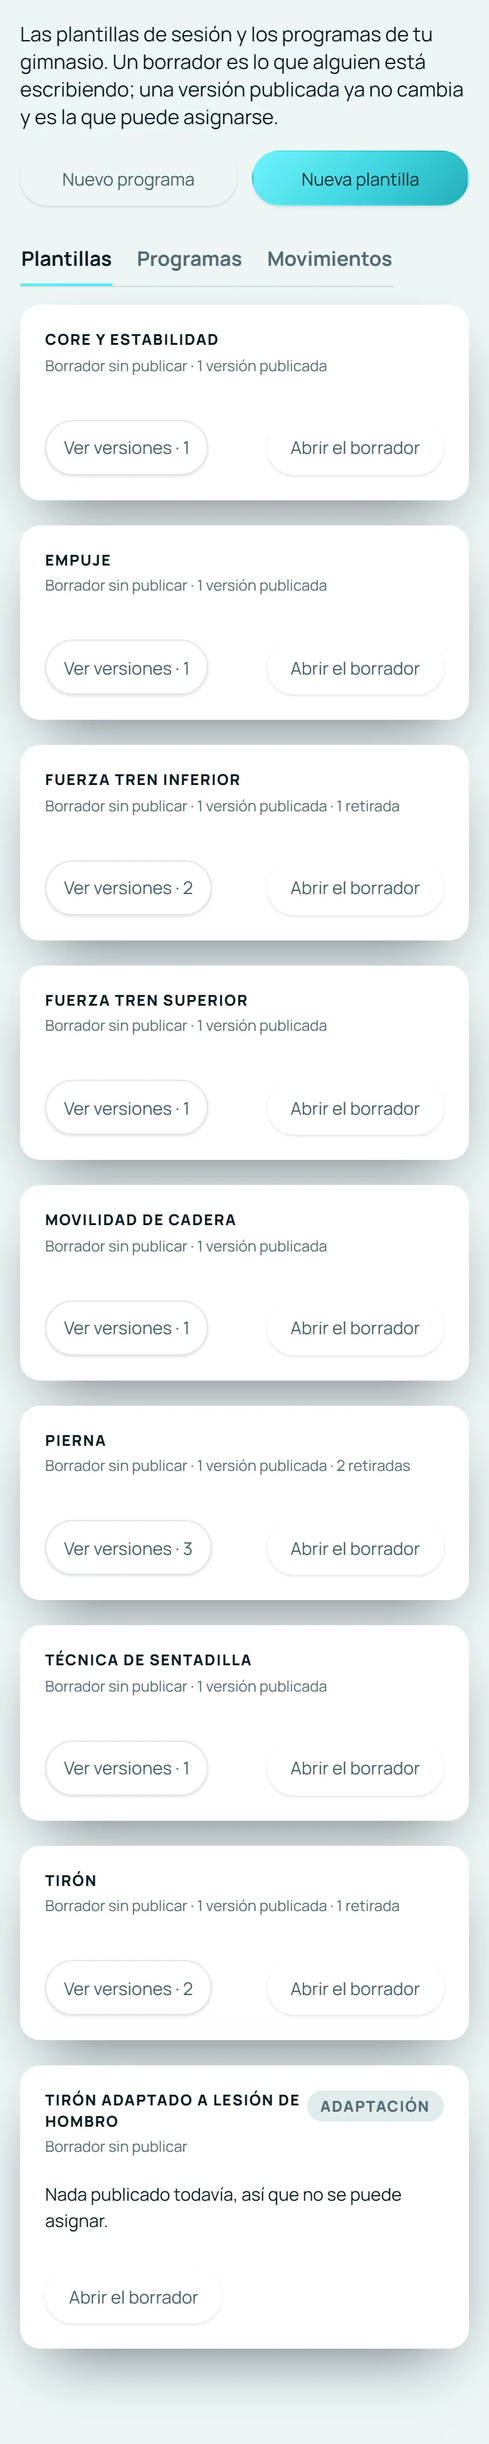
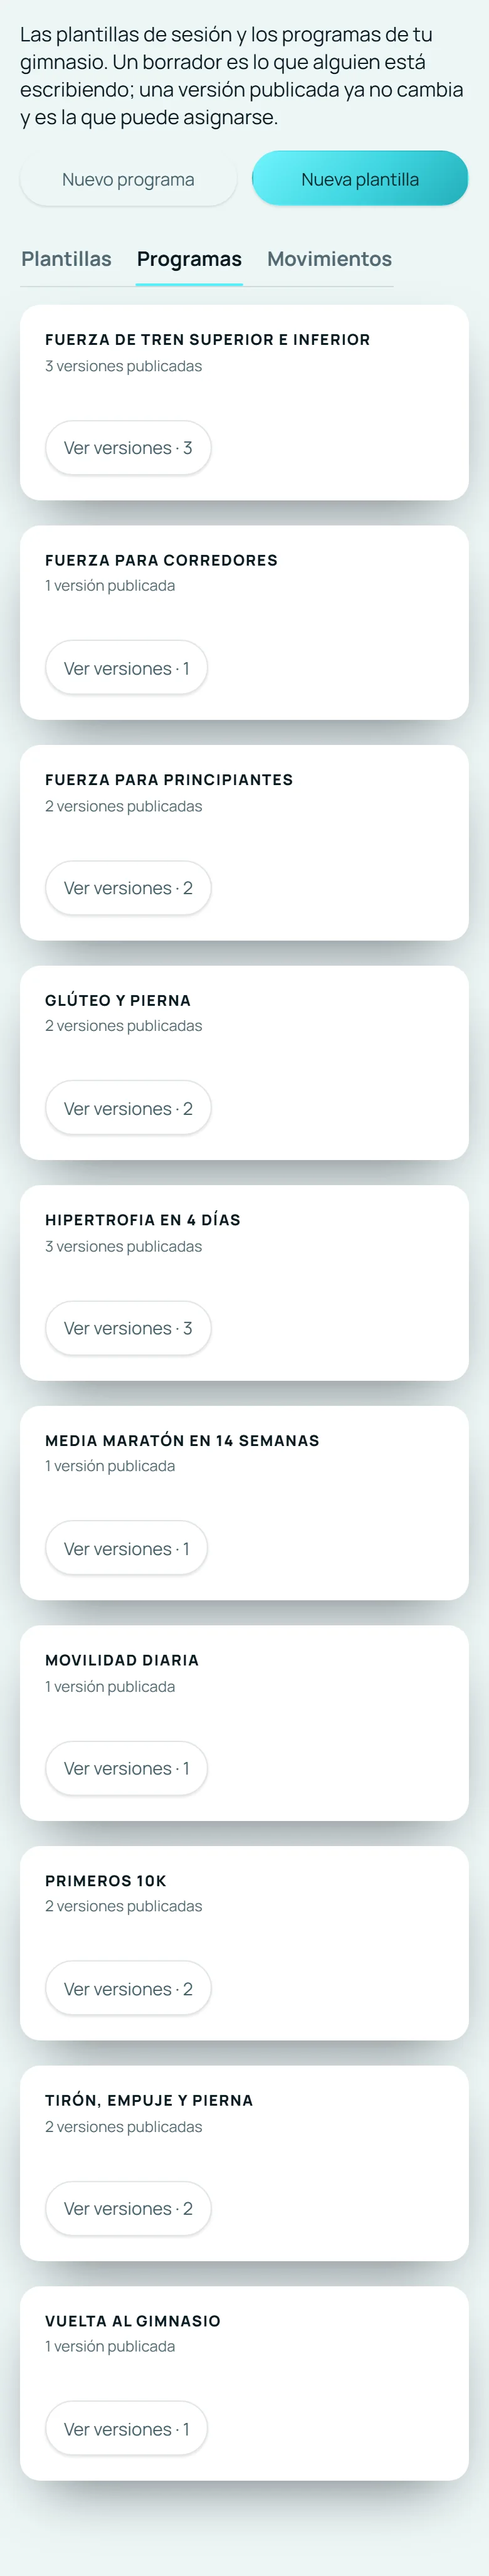
fix(studio): show published programs in the Studio window
Every template card in the capture read as an unpublished draft, the
app's default state, on a page that has to sell the product. The owner
rejected it.

The window now shows the programs tab with ten invented programs, all
published and none with a draft open. The guide records the rule for
the next capture.

Changed region(s): [[0.0308, 0.0, 0.9846, 0.9623]]

diff --git a/src/lib/content.ts b/src/lib/content.ts
@@ -100,7 +100,7 @@ export const content = {
     studioSectionCopy:
       "Studio trabaja sobre el Fitness ID de cada persona: planificas, sigues su progreso y llevas tu operación sin pedirle que empiece de cero.",
     studioWindowAlt:
-      "Allfit Studio, pantalla Contenido: las plantillas de sesión del gimnasio, con sus borradores y sus versiones publicadas.",
+      "Allfit Studio, pantalla Contenido: los programas del gimnasio, cada uno con sus versiones publicadas.",
 
     statusLabel: "Lista de espera",
     statusTitle: "Estamos construyendo Allfit One.",
@@ -229,7 +229,7 @@ export const content = {
     studioSectionCopy:
       "Studio works on each person's Fitness ID: you plan, follow their progress and run your operation without asking them to start over.",
     studioWindowAlt:
-      "Allfit Studio, Content screen: the gym's session templates, with their drafts and published versions.",
+      "Allfit Studio, Content screen: the gym's programs, each with its published versions.",
 
     statusLabel: "Waitlist",
     statusTitle: "We're building Allfit One.",

diff --git a/src/components/studio-window.tsx b/src/components/studio-window.tsx
@@ -6,7 +6,7 @@ import * as m from "motion/react-m";
 /**
  * The Allfit Studio section's one object: a window on the real app. Both captures are the
  * app's content screen, «Contenido», taken from Allfit Studio itself with sample data:
- * the session templates a studio writes, publishes and assigns.
+ * the programs a studio has published and assigns to its clients.
  *
  * The window works instead of entering. Each capture comes in two pieces, the screen as it
  * loads and the whole page under its header, so the page can be read down as the reader
@@ -41,7 +41,7 @@ const desktop: Capture = {
   height: 720,
   pageLeft: 272,
   pageTop: 64,
-  pageHeight: 1114,
+  pageHeight: 1081,
   travel: 420,
 };
 
@@ -53,7 +53,7 @@ const mobile: Capture = {
   height: 700,
   pageLeft: 0,
   pageTop: 64,
-  pageHeight: 1949,
+  pageHeight: 2054,
   travel: 420,
 };
 

diff --git a/AGENTS.md b/AGENTS.md
@@ -90,7 +90,7 @@ This block is written and re-added by `next dev` — verify at `node_modules/nex
 - Spend visual emphasis in one place per section. Remove decoration that competes with the content hierarchy.
 - The hero has no product mockups. The connected stage (a Studio dashboard with the Space phone crossing it) was removed in November 2026 at the owner's request; each product shows itself in its own section. Do not bring mockups back into the hero.
 - The hero sits on flat Void: no grid texture, radial glow or ghost “1” behind the copy. Those were removed as generic dark-landing signals; do not reintroduce them. The same applies to every section: no outlined “1” behind Fitness ID, no outlined Studio wordmark behind Allfit Studio, no sheen or pulse line on the Fitness ID card (its switches and its lift, described under motion below, are the card acting, not decoration).
-- Each section says something the others do not. The problem section's ledger is one real case: spoken to the reader like the title: «Tú te llevas» «Nada» (in solid type) beside «Dejas en tu antiguo gimnasio» and the record that stays, in figures (184 sessions, a 95 kg squat, a 12-week program, notes on your knee injury, two years with the same coach). In November 2026 it replaced six generic categories and a hollow «NADA» at the owner's request; keep it concrete. The Allfit Space section shows the app itself: the same phone as the Space landing, its frame around a real capture of the app with a session under way (`SpacePhone` in `src/components/space-phone.tsx`; the capture is `public/images/space/session.webp`, copied from the Space landing). The owner asked for the real mockup in November 2026, so both sites show one product; do not go back to a drawn screen. In November 2026 it replaced the row of five app areas (Hoy, Entrena, Explora, Comunidad, Tú) at the owner's request; do not bring back a list of app areas. The Allfit Studio section shows the product the same way: a window on a real capture of the app's content screen, «Contenido», on its «Plantillas» tab (`StudioWindow` in `src/components/studio-window.tsx`, captures in `public/images/studio/`), with sample data: the session templates a studio writes, publishes and assigns. The owner asked for the real capture in November 2026 and chose this screen after trying a session's result and the home screen, with invented data that reads well and without the organization's name or the role chips in the sidebar; do not go back to a drawn panel. It replaced Studio's four differentiators and five modules, also at the owner's request; do not bring back lists of Studio features. The “your history stays with you” promise lives in the hero lead and is paid off by the Fitness ID card's foot, which mirrors the problem ledger. The per-product status rows («En desarrollo», «Tesis de producto») were removed from the waitlist in November 2026.
+- Each section says something the others do not. The problem section's ledger is one real case: spoken to the reader like the title: «Tú te llevas» «Nada» (in solid type) beside «Dejas en tu antiguo gimnasio» and the record that stays, in figures (184 sessions, a 95 kg squat, a 12-week program, notes on your knee injury, two years with the same coach). In November 2026 it replaced six generic categories and a hollow «NADA» at the owner's request; keep it concrete. The Allfit Space section shows the app itself: the same phone as the Space landing, its frame around a real capture of the app with a session under way (`SpacePhone` in `src/components/space-phone.tsx`; the capture is `public/images/space/session.webp`, copied from the Space landing). The owner asked for the real mockup in November 2026, so both sites show one product; do not go back to a drawn screen. In November 2026 it replaced the row of five app areas (Hoy, Entrena, Explora, Comunidad, Tú) at the owner's request; do not bring back a list of app areas. The Allfit Studio section shows the product the same way: a window on a real capture of the app's content screen, «Contenido», on its «Programas» tab (`StudioWindow` in `src/components/studio-window.tsx`, captures in `public/images/studio/`), with sample data: the programs a studio has published and assigns. The owner asked for the real capture in November 2026 and chose this screen after trying a session's result and the home screen, with invented data that reads well and without the organization's name or the role chips in the sidebar; do not go back to a drawn panel. It replaced Studio's four differentiators and five modules, also at the owner's request; do not bring back lists of Studio features. The “your history stays with you” promise lives in the hero lead and is paid off by the Fitness ID card's foot, which mirrors the problem ledger. The per-product status rows («En desarrollo», «Tesis de producto») were removed from the waitlist in November 2026.
 - The waitlist names one person, by first name only: Kevin, Walbert, Jimmy, Charly or Nico, picked at random once per visit by `usePersonName()` in `src/lib/person.ts` and the same in the form's name and email placeholders and its email error. Copy carries `{name}`, and `{handle}` for the lower-case form in addresses; `withPerson()` fills both. The static HTML carries the first name and the visit's pick replaces it right after hydration. The owner chose the five names in November 2026, replacing the fixed persona Mariana Rojas; do not bring back a fixed persona or a surname. The product captures show the apps' own sample data and name nobody from that list.
 - Homepage motion shares the vocabulary of the Space and Studio landings and is spent sparingly, one moment per section:
   - the hero enters once, on load, in pure CSS;
@@ -102,7 +102,8 @@ This block is written and re-added by `next dev` — verify at `node_modules/nex
 - **The Fitness ID card is the first object that acts instead of entering** (a trial the owner asked for in November 2026, to move the page away from slide-like entrances). Each row carries a switch, off at rest. As the card crosses the viewport, two rows are shared («Tú concedes»), one is withdrawn («Tú revocas») and, with the relationship over, every row turns on, top to bottom, and the card is picked up («Tú te lo llevas»: the owner asked for all of them on, since all of it leaves with the person); the control being acted out takes the cyan, scrolling back plays it in reverse, and a mouse over a control previews its stage. `src/components/fitness-id-section.tsx` picks the stage from the scroll and `src/components/fitness-id-card.tsx` draws it. The switches are illustration: hidden from assistive technology and not interactive. Server-rendered HTML and reduced motion get the card at rest.
 - **The Allfit Space phone works instead of entering.** A capture cannot change, so the parts that do are drawn over it, placed by the capture's own pixels and sized in the app's points. At rest the last two sets of «Dominadas» wait to be logged, drawn as the app draws a pending set. As the phone climbs the viewport three sets are logged: the first two tick those sets (the drawn row fades to the capture's own ticked row, so the screen ends exactly as the app took it) and the third logs a set of «Remo con barra»; each one rolls the volume and the set count and pushes the progress bar. Scrolling back takes the sets away. `SpaceSection` in `src/components/landing-page.tsx` counts the sets from the scroll and `SpacePhone` draws them. A new capture needs its overlays measured again.
 - **The Allfit Studio window works instead of entering.** Its capture comes in two pieces per layout (the app on a phone below 1024px, with its sidebar from there): the screen as it loads, and the whole page under the header. As the window crosses the viewport the page is read down under the app's own sidebar and header, following the scroll with a spring, and read back up on the way back. It is read part of the way (`travel`), so the page inside never moves faster than the reader's scroll. Reduced motion and static HTML keep the page at its top.
-- **Retaking the Studio captures.** They come from the Studio app itself, in the `allfitone` repository: a temporary Playwright spec in `apps/studio-web/e2e/` that installs `studio-api-mock` with its own `organizationSessionTemplates`, opens `/organizations/{organization}/content`, hides `[data-analytics-controls]`, hides every text in `[data-sidebar="header"]` (the organization's name and the role chips; the wordmark is an SVG and stays) and takes a viewport screenshot and a full-page one at 1280 × 720 and 390 × 700, both at 2×. The page piece is the full-page shot cropped under the 64px header and right of the 272px sidebar; `pageHeight` in `studio-window.tsx` is its height in CSS px, and `travel` must stay under `pageHeight` less the visible height. The organization is named «tu gimnasio», so the screen's lead reads «los programas de tu gimnasio» and names no one. The sample templates are invented and plain: Tirón, Empuje, Pierna, Fuerza tren superior and inferior, Movilidad de cadera, Core y estabilidad, Técnica de sentadilla and one adaptation, each cloned from the mock's own templates. Do not commit the spec.
+- **Retaking the Studio captures.** They come from the Studio app itself, in the `allfitone` repository: a temporary Playwright spec in `apps/studio-web/e2e/` that installs `studio-api-mock` with its own `organizationPrograms`, opens `/organizations/{organization}/content`, opens the «Programas» tab, hides `[data-analytics-controls]`, hides every text in `[data-sidebar="header"]` (the organization's name and the role chips; the wordmark is an SVG and stays) and takes a viewport screenshot and a full-page one at 1280 × 720 and 390 × 700, both at 2×. The page piece is the full-page shot cropped under the 64px header and right of the 272px sidebar; `pageHeight` in `studio-window.tsx` is its height in CSS px, and `travel` must stay under `pageHeight` less the visible height. The organization is named «tu gimnasio», so the screen's lead reads «los programas de tu gimnasio» and names no one. The ten sample programs are invented («Fuerza para principiantes», «Hipertrofia en 4 días», «Media maratón en 14 semanas»…), each cloned from the mock's published program with `draft: null` and one to three published versions. Do not commit the spec.
+- **A capture on this page sells the product.** Sample data shows finished work in its best state: published, assigned, complete. The owner rejected a capture whose every card read «Borrador sin publicar» in November 2026. Before taking one, read each state line the screen prints and leave no draft, empty, pending, retired or error state in it.
 - Objects that act in steps share one hook, `useScrollSteps` in `src/components/scroll-steps.ts`: a scroll window on the object and the progress at which each step starts. Give a new acting object a window where the part that changes is on screen for every step.
 - These objects use **Motion** (`motion`, imported from `motion/react`; formerly Framer Motion), pinned to the version the Design System already installs so only one copy exists. Use it for what CSS cannot do: springs and state changes driven by the scroll. Load it through the page's `LazyMotion` (in `LandingPage`) with the `m` components (`motion/react-m`) and `src/components/motion-features.ts`, never the full `motion` component, and do not add layout animations or drag (`domMax`). Animate a change of state, not an appearance: a Motion `initial` that hides content leaves it hidden without JavaScript.
 - Hidden states stay inside `prefers-reduced-motion: no-preference`, so the page reads whole without JavaScript and reduced motion keeps every final state. Content already on screen when the reveals arm stays shown.

diff --git a/DESIGN.md b/DESIGN.md
@@ -505,11 +505,11 @@ Links styled as buttons remain native anchors. In the current Base UI stack, use
 
 **`space-session-phone`** — The Allfit Space section's one object: the Space landing's phone on Chalk, 300px wide and 320px from `lg`, upright, beside the title from `lg` and below the copy under it. It is that landing's frame (carbon body, a hairline of cyan at 34%, the 1206 × 2622 shape) around a real capture of the app's session screen, `public/images/space/session.webp`, so both sites show one product. The parts that change as the reader scrolls (two pending sets of «Dominadas», the volume, the set count, the progress bar and «Remo con barra»'s count) are drawn over the capture with the app's own sizes and colours, sampled from the capture; nothing else is drawn.
 
-**`studio-content-window`** — The Allfit Studio section's one object: a full-width window on the real app below the title, with the lead and link beside the title from `lg`. It is a capture of Studio's content screen, «Contenido» (sidebar, header and the session templates as cards), not a drawing: a hairline border, the panel radius and a deep shadow on the Panel-coloured section, nothing else added. The sidebar shows the wordmark and the navigation only; the organization's name and the role chips are left out. Below `lg` it is the app's phone layout, 390px wide and centred. The page inside is read down as the reader scrolls.
+**`studio-content-window`** — The Allfit Studio section's one object: a full-width window on the real app below the title, with the lead and link beside the title from `lg`. It is a capture of Studio's content screen, «Contenido» (sidebar, header and the studio's published programs as cards), not a drawing: a hairline border, the panel radius and a deep shadow on the Panel-coloured section, nothing else added. The sidebar shows the wordmark and the navigation only; the organization's name and the role chips are left out. Below `lg` it is the app's phone layout, 390px wide and centred. The page inside is read down as the reader scrolls.
 
 **`hero-product-definitions`** — The hero names both products side by side, with equal weight, below the headline: each by its wordmark first, then its audience as a plain line («Para personas», «Para profesionales y organizaciones»), never as an uppercase label above the wordmark, then one sentence and an outline link to its landing. Both wordmarks share a height, not a width. The hero carries no product mockup: the connected stage (a Studio dashboard with the Space phone crossing its edge) was removed in November 2026 at the owner's request, and each product now shows itself in its own section (`space-session-phone`, `studio-review-panel`).
 
-- **Real captures, sample data.** Both product objects are real captures of the apps with sample data: the Space phone shows a «Tirón» session under way, and the Studio window shows the studio's session templates, «Tirón» among them. The waitlist's placeholders name one person per visit, a first name picked at random from Kevin, Walbert, Jimmy, Charly and Nico.
+- **Real captures, sample data.** Both product objects are real captures of the apps with sample data: the Space phone shows a «Tirón» session under way, and the Studio window shows the studio's published programs. Sample data shows the product at its best, finished and published; no drafts, empty states or pending notices. The waitlist's placeholders name one person per visit, a first name picked at random from Kevin, Walbert, Jimmy, Charly and Nico.
 - **No metric decoration.** No KPI tile rows, progress rings, sparklines or a percentage repeated across screens.
 - **No real or Allfit-branded organization inside the mockups.** The studio is fictional and neutral so the preview reads as a customer's workspace, not as Allfit One's own gym.
 
